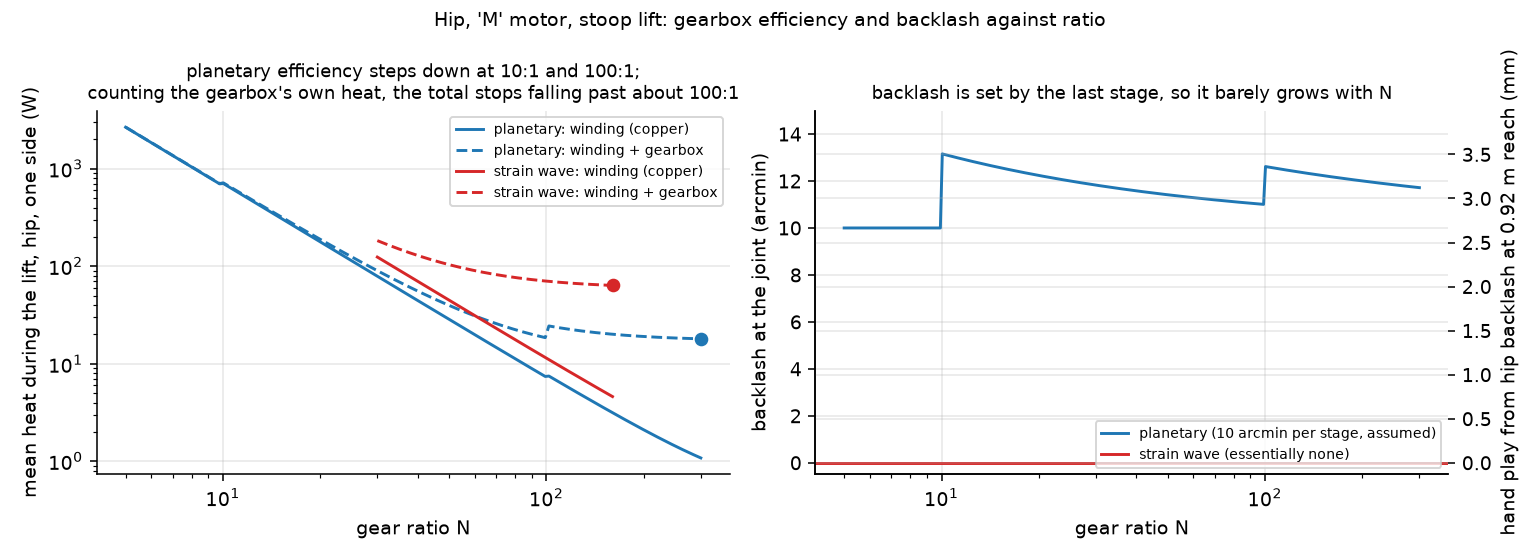
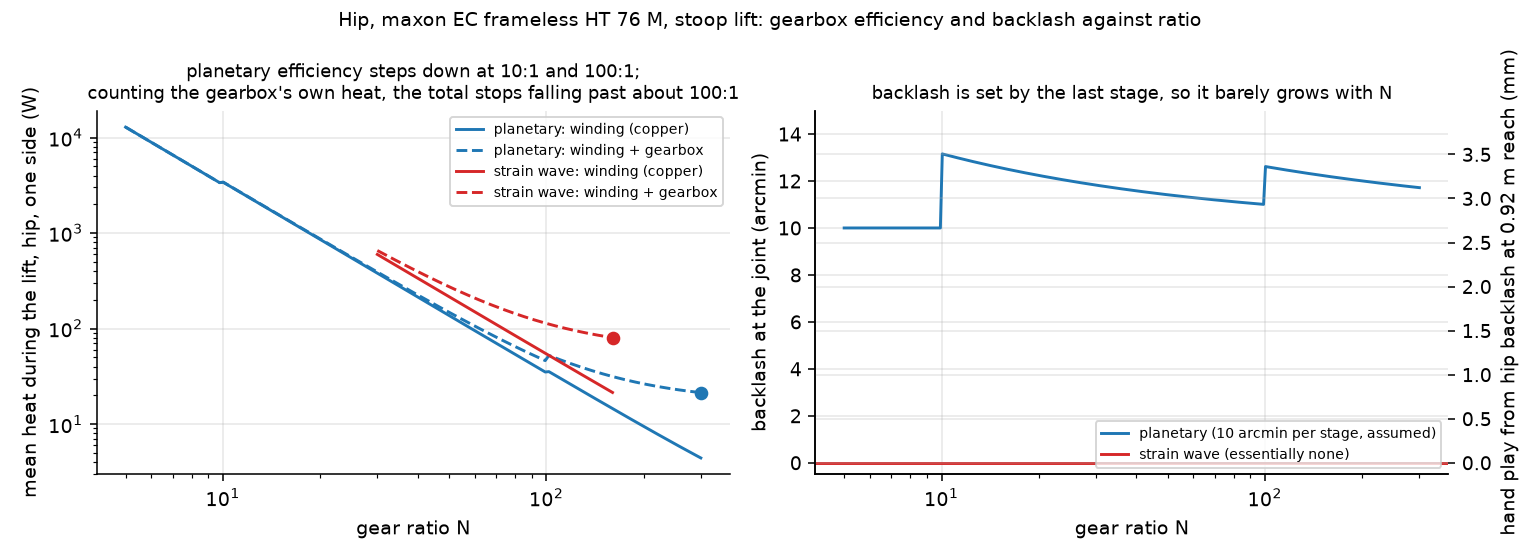
Show what real motors do to the ratio choice (Closes #2)
The real kits are lighter and have lower motor constants than the made-up
ones, so the shuttle limits move a long way: with the HT 76 M at every
joint, the hip needs 43:1 instead of 12:1 and the shoulder 36:1 instead of
9.5:1. At the hip the thermal limit sets a minimum ratio and push recovery a
maximum: the 226 g kit has no window (95 vs 74:1), the 376 g kit works from
43 to 60:1 and the 649 g kit from 21 to 40:1.

Updates the figures, the gearbox and spring numbers, the README (with a
section on the real motors) and the derivations, and drops an unused dict
from the figure script.

diff --git a/examples/make_figures.py b/examples/make_figures.py
@@ -122,7 +122,7 @@ results["hip_ratio_trade"] = {}
 for mot, c in zip(A.MOTORS, ("C0", "C1", "C2")):
     ratios, loss, ok = A.sweep_ratio(mot, tau_h, qd_h, qdd_h, gearbox=A.PLANETARY)
     n_speed = mot.w_max / SPEED_FLOOR * 0.8  # keep 20% margin for torque at that speed
-    ax.plot(ratios, loss, color=c, label=f"{mot.name.split()[-1]}: Km {mot.km:.2f} N m/sqrt(W)")
+    ax.plot(ratios, loss, color=c, label=f"{' '.join(mot.name.split()[-3:])}: Km {mot.km:.2f} N m/sqrt(W)")
     ax.axvline(n_speed, color=c, ls=":", lw=1)
     ax2.plot(ratios, mot.j_rotor * ratios**2, color=c, ls="--", lw=1)
     usable = ok & (ratios <= n_speed)
@@ -191,14 +191,13 @@ axes[1].set_ylim(-0.5, 15)
 ax2.set_ylim(np.radians(-0.5 / 60) * reach * 1000, np.radians(15 / 60) * reach * 1000)
 axes[1].set_title("backlash is set by the last stage, so it barely grows with N", fontsize=9)
 axes[1].legend(fontsize=7, loc="lower right")
-fig.suptitle("Hip, 'M' motor, stoop lift: gearbox efficiency and backlash against ratio", fontsize=10)
+fig.suptitle(f"Hip, {mot_m.name}, stoop lift: gearbox efficiency and backlash against ratio", fontsize=10)
 save(fig, "gearbox_tradeoffs.png")
 results["gearbox"]["hip_reach_at_pick_m"] = round(reach, 3)
 results["gearbox"]["hand_play_mm_planetary_at_50_to_1"] = round(float(np.radians(A.PLANETARY.backlash_arcmin(50) / 60) * reach * 1000), 1)
 
 # ------------------------------------------------------------------ 3. tote shuttle: which joint overheats first?
 mot = A.MOTORS[1]
-choice = {"ankle": 120, "knee": 120, "hip": results["hip_ratio_trade"][mot.name]["ratio"], "shoulder": 120, "elbow": 120}
 m_empty, d_empty = model.load(model.Body(tote_mass=0.0))
 q_end = r.q[-1]
 d.qpos[:], d.qvel[:], d.qacc[:] = q_end, 0, 0
@@ -211,17 +210,17 @@ lift_T = r.t[-1]
 RATE = 120  # totes per hour: one every 30 s
 
 
-def steady_T(j_idx, ratio, rate):
+def steady_T(j_idx, ratio, rate, motor=mot):
     cycle = 3600.0 / rate
     walk = max(cycle - 2 * lift_T, 0.0) / 2  # carry loaded half the remaining time, return empty the other half
-    dr = A.Drive(mot, ratio, gearbox=A.PLANETARY)
+    dr = A.Drive(motor, ratio, gearbox=A.PLANETARY)
     tau_j, qd_j, qdd_j = r.tau[:, j_idx] / 2, r.qd[:, j_idx], qdd[:, j_idx]
     e_lift = np.trapezoid(dr.copper_loss(tau_j, qdd_j, qd_j), r.t)
     # Lowering is the lift played backwards: with no damping the torques are the same at each posture,
     # but the speeds flip sign, so the load drives the gearbox and friction helps.
     e_lower = np.trapezoid(dr.copper_loss(tau_j, qdd_j, -qd_j), r.t)
     p_avg = (e_lift + e_lower + walk * dr.copper_loss(hold_tau[j_idx]) + walk * dr.copper_loss(empty_tau[j_idx])) / cycle
-    return A.steady_winding_temperature(mot, p_avg)
+    return A.steady_winding_temperature(motor, p_avg)
 
 
 ratios = np.geomspace(4, 120, 60)
@@ -233,15 +232,23 @@ for i, j in enumerate(J):
     ok = np.where(T <= mot.t_winding_max)[0]
     results["min_ratio_for_120_totes_per_hour"][j] = round(float(ratios[ok[0]]), 1) if len(ok) else None
 ax.axhline(mot.t_winding_max, color="k", ls=":", lw=1)
-ax.text(4.3, mot.t_winding_max + 4, "winding limit 120 C", fontsize=8)
+ax.text(4.3, mot.t_winding_max + 4, f"winding limit {mot.t_winding_max:.0f} C", fontsize=8)
 ax.set_xscale("log")
 ax.set_ylim(25, 250)
-ax.set_xlabel("gear ratio N (same 'M' motor at every joint)")
+ax.set_xlabel(f"gear ratio N (the same {mot.name} at every joint)")
 ax.set_ylabel("steady winding temperature (C)")
 ax.set_title(f"Tote shuttle at {RATE}/hour: below what gear ratio does each joint overheat?", fontsize=9)
 ax.legend(fontsize=8)
 save(fig, "shuttle_thermal.png")
 results["hold_torque_per_side_Nm"] = dict(zip(J, np.round(hold_tau, 1).tolist()))
+results["min_ratio_for_120_totes_per_hour_by_motor"] = {}
+for motor in A.MOTORS:
+    row = {}
+    for i, j in enumerate(J):
+        T = np.array([steady_T(i, n, RATE, motor) for n in ratios])
+        ok = np.where(T <= motor.t_winding_max)[0]
+        row[j] = round(float(ratios[ok[0]]), 1) if len(ok) else None
+    results["min_ratio_for_120_totes_per_hour_by_motor"][f"{motor.name} ({motor.mass * 1000:.0f} g)"] = row
 
 # ------------------------------------------------------------------ 4. series elastic actuator: impact
 j_link = 1.5  # kg m^2, rough trunk + arms about the hip

diff --git a/README.md b/README.md
@@ -28,15 +28,23 @@ I expected to find an optimal gear ratio and got something else. For a slow lift
 
 <img src="docs/figures/hip_ratio_trade.png" width="49%"> <img src="docs/figures/shuttle_thermal.png" width="49%">
 
-On the right, the same mid-size motor at every joint does 120 totes an hour (lift, carry, lower, walk back). The hip overheats first, below about 12:1, and the shoulder holding the tote out in front is next at about 9.5:1. That's interesting because the low ratios that make a robot backdrivable and safe around people (6 to 10:1) are right where these two joints run out of thermal margin.
+On the right, the same mid-size motor at every joint (maxon's EC frameless HT 76 M, next section) does 120 totes an hour (lift, carry, lower, walk back). The hip overheats first, below about 43:1, and the shoulder holding the tote out in front is next at about 36:1. That rules out the low ratios that make a robot backdrivable and safe around people (6 to 10:1) for a motor this size.
+
+## Real motors instead of made-up ones
+
+My first version used three motors I'd made up to span a realistic range. Swapping in three real frameless kits from maxon's catalog changed the answer a lot. These are the EC frameless HT 60 M, 76 M and 90 M, with every number from their product pages. The real kits are lighter (226 to 649 g) and have lower motor constants (0.14 to 0.47 N·m/√W, against 0.22 to 1.24 for mine), so they make more heat for the same torque. My made-up mid-size motor had said 12:1 was enough at the hip for the shuttle. The real one needs 43:1.
+
+With real motors the shuttle sets a minimum ratio at the hip, from heat, and the push recovery (below) sets a maximum, from speed. A motor only works if there's room between the two. The 226 g kit has none: it needs 95:1 to stay cool, but past 74:1 it's too slow. The 376 g kit works from 43 to 60:1, and the 649 g kit from 21 to 40:1.
+
+Two details came out of the datasheets. maxon gives two thermal resistances and two time constants instead of one, so the winding temperature model now has two nodes: the winding heats up in under a minute and a half, the housing over several minutes. And the listed stall torque is far below the torque constant times the stall current, because the iron saturates, so I cap the current at the listed stall torque. The tests cross-check the datasheet numbers against each other (torque constant against speed constant, stall current against V/R), which would catch a typo.
 
 ## What the gearbox costs
 
-I first used a constant 90% gearbox efficiency. A real planetary gearbox adds a stage for every 10:1 or so, and each stage costs a few percent, so I made efficiency step down with the number of stages (0.97 per stage, an assumption) and counted the gearbox's own friction heat too. The winding heat still keeps falling with ratio, but the total doesn't. Past about 100:1 the gearbox makes most of the heat. The total is 18.4 W at 100:1, jumps to 24.5 W once a third stage is needed, and is still 18 W at 300:1.
+I first used a constant 90% gearbox efficiency. A real planetary gearbox adds a stage for every 10:1 or so, and each stage costs a few percent, so I made efficiency step down with the number of stages (0.97 per stage, an assumption) and counted the gearbox's own friction heat too. The winding heat keeps falling with ratio, but the gearbox's share keeps growing, and past about 140:1 the gearbox makes most of the heat. Each extra stage also costs a step: the total goes from 45.6 W at 100:1 to 52.9 W just past it, once a third stage is needed.
 
 Lowering a tote runs the gearbox backwards, with the load driving the motor, and then friction helps hold the load instead of fighting the motor. For friction-type losses the backwards efficiency is $2 - 1/\eta$, so the motor needs less torque going down than coming up. The shuttle numbers above include that.
 
-A strain-wave gearbox gets a high ratio in one stage with essentially no backlash, but at an assumed 75% efficiency it makes 2.6 times the heat of a two-stage planetary at 50:1 (104 W against 40 W), most of it in the gearbox. Backlash barely depends on the ratio, because each stage's play reaches the output divided by the ratio of the stages after it, so the last stage sets it. At 50:1 that's about 11 arcmin, which lets the hands wander about 3 mm at the hip's 0.92 m reach.
+A strain-wave gearbox gets a high ratio in one stage with essentially no backlash, but at an assumed 75% efficiency it makes 1.9 times the heat of a two-stage planetary at 50:1 (274 W against 148 W), and five times the gearbox heat. Backlash barely depends on the ratio, because each stage's play reaches the output divided by the ratio of the stages after it, so the last stage sets it. At 50:1 that's about 11 arcmin, which lets the hands wander about 3 mm at the hip's 0.92 m reach.
 
 <img src="docs/figures/gearbox_tradeoffs.png" width="95%">
 
@@ -50,7 +58,7 @@ So the hip speed you need depends as much on how far the robot is allowed to ste
 
 ## Do series springs help?
 
-I modeled the hip running into something stiff at 1 rad/s, with a spring between the gearbox and the leg. At a 120:1 ratio a 3000 N·m/rad spring cuts the shock on the gearbox from 470 to 98 N·m, but at 20:1 it actually makes it slightly worse, because there's not much rotor inertia to protect against in the first place. The cost of the spring is 0.074 rad of deflection at peak hip torque.
+I modeled the hip running into something stiff at 1 rad/s, with a spring between the gearbox and the leg. At a 120:1 ratio a 3000 N·m/rad spring cuts the shock on the gearbox from 218 to 74 N·m, but at 20:1 it actually makes it worse (11 against 7 N·m), because there's not much rotor inertia to protect against in the first place. The cost of the spring is 0.074 rad of deflection at peak hip torque.
 
 <img src="docs/figures/sea_impact.png" width="55%">
 
@@ -76,7 +84,7 @@ pytest -q
 python examples/make_figures.py
 ```
 
-The motor parameters are illustrative values spread across a realistic range, not catalogue parts, so swap in a datasheet for a real design. The physics is written out in [DERIVATIONS.md](DERIVATIONS.md). Open questions and next steps are in [issues](https://github.com/aneeshkaravadi/actuator-sizer/issues).
+The motors are three maxon frameless kits, with every number from maxon's product pages, and the made-up ones I started with are still in the code as `ILLUSTRATIVE_MOTORS`. The physics is written out in [DERIVATIONS.md](DERIVATIONS.md). Open questions and next steps are in [issues](https://github.com/aneeshkaravadi/actuator-sizer/issues).
 
 ---
 

diff --git a/DERIVATIONS.md b/DERIVATIONS.md
@@ -74,6 +74,14 @@ $$T = \frac{T_\text{amb} + R_{th}P(1 - 25\alpha)}{1 - R_{th}P\alpha}$$
 
 This goes to infinity as $R_{th}P\alpha \to 1$: **thermal runaway**, where heating grows faster than cooling.
 
+**Two nodes.** maxon's datasheets give two thermal resistances (winding to housing, $R_{wh}$, and housing to ambient, $R_{ha}$) and two time constants. They describe a winding with heat capacity $C_w = \tau_w/R_{wh}$ sitting on a housing with $C_h = \tau_m/R_{ha}$:
+
+$$C_w\dot T_w = P\,[1 + \alpha(T_w - 25)] - \frac{T_w - T_h}{R_{wh}}, \qquad C_h\dot T_h = \frac{T_w - T_h}{R_{wh}} - \frac{T_h - T_\text{amb}}{R_{ha}}$$
+
+In steady state the two resistances are just in series, so the closed form above holds with $R_{th} = R_{wh} + R_{ha}$. In the first seconds the winding barely feels the housing and heats at about $P/C_w$, which is much faster than the one-node model says (both checked in `tests/test_actsizer.py`).
+
+**Datasheet values.** The tests check them against each other: $K_t = 60/(2\pi K_v)$ in SI, the no-load speed just under $K_v V$, and the stall current equal to $V/R$. The listed stall torque is far below $K_t I_\text{stall}$, because the iron saturates, so the current is capped at $\tau_\text{stall}/K_t$ instead of $I_\text{stall}$.
+
 ## 6. Series elastic actuator impact
 
 Model it as two inertias joined by the series spring $k$:
@@ -111,6 +119,6 @@ $z_0 = 1.02$ m and the hip height (the swing leg's length, 0.93 m) come from the
 - Sagittal plane only, with left and right sides lumped and the feet bolted down.
 - Contact forces with the tote and floor are not resolved.
 - Gearbox efficiency comes from a stage count with assumed per-stage values and pure Coulomb friction, with no speed- or load-dependent losses. Backlash is reported but not fed into the dynamics.
-- The motors are illustrative, not catalogue parts.
+- The motors are maxon frameless kits, but their thermal resistance to ambient is for maxon's reference mounting, and a real joint housing would differ.
 - The CoP uses a quasi-static vertical load.
 - Push recovery uses a point-mass pendulum at constant height, with no reaction delay and no swing-leg dynamics, so its speeds are a lower bound.
